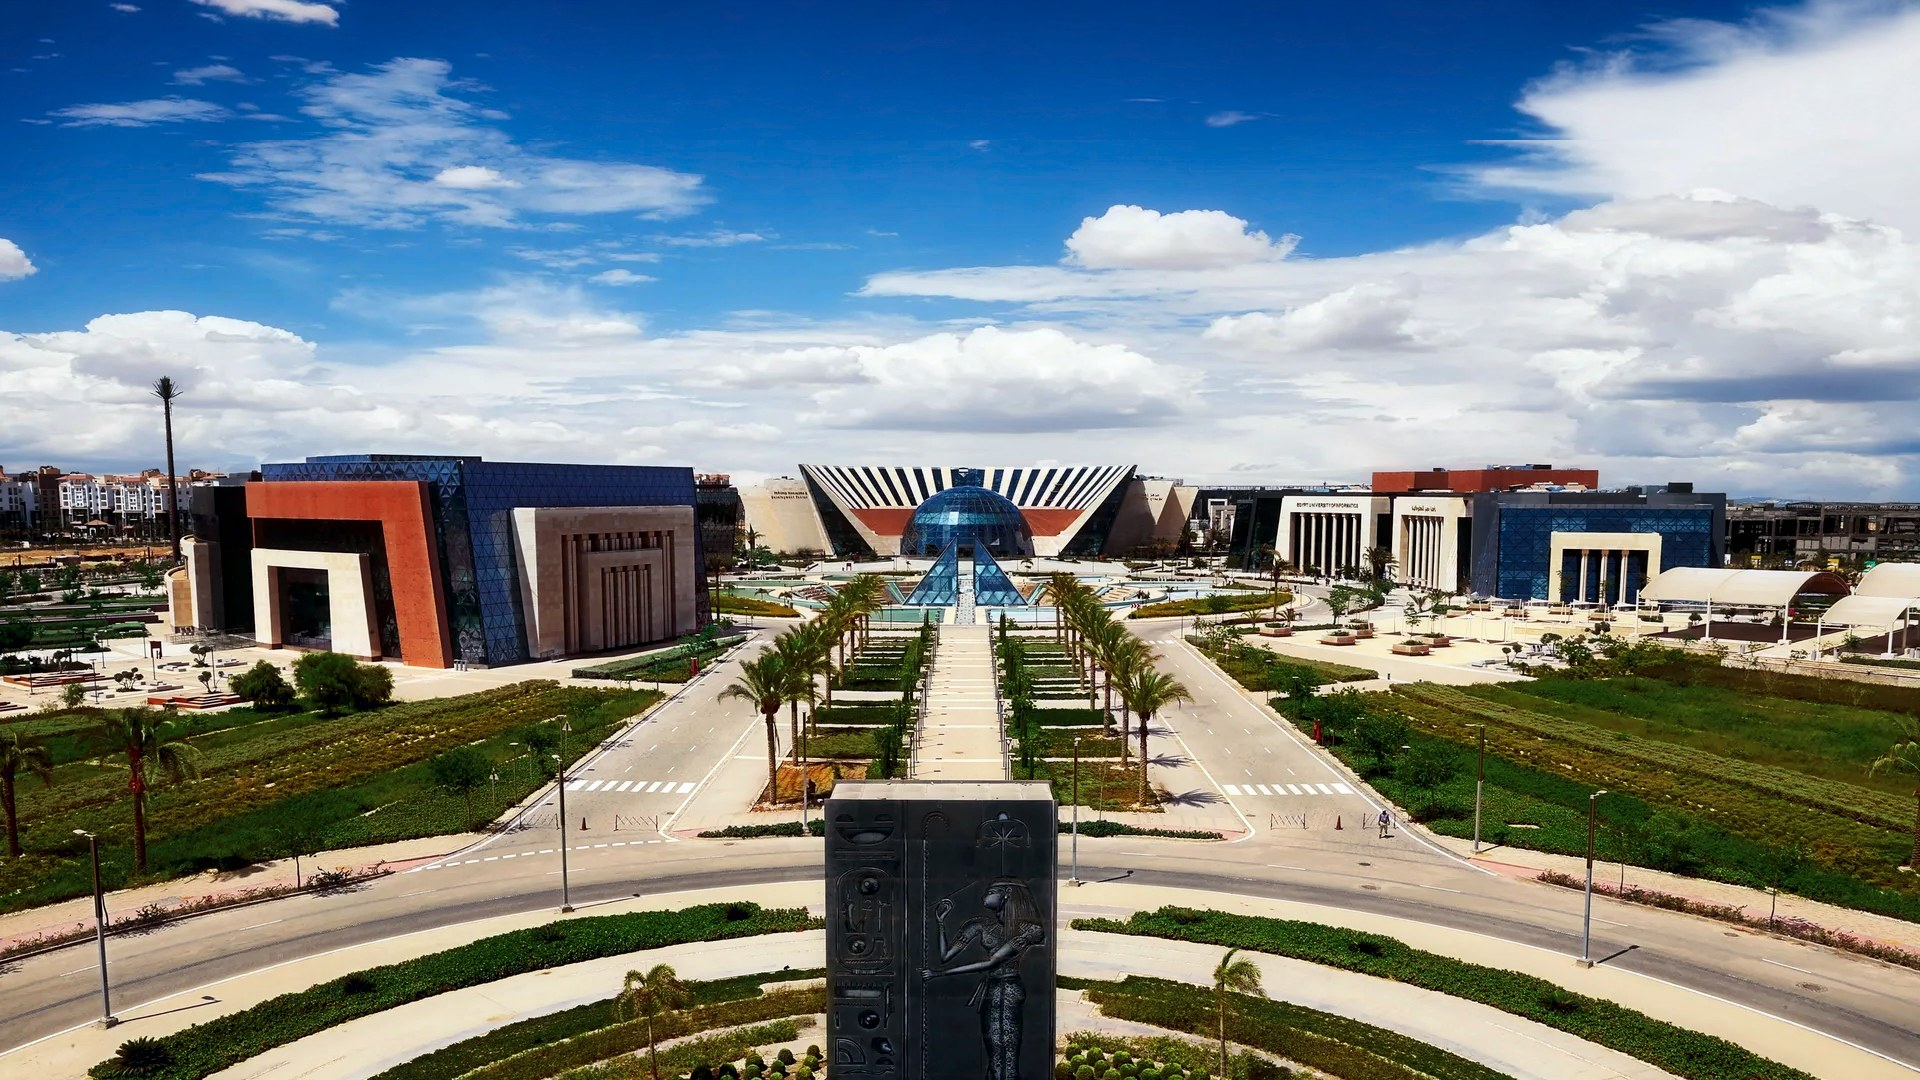
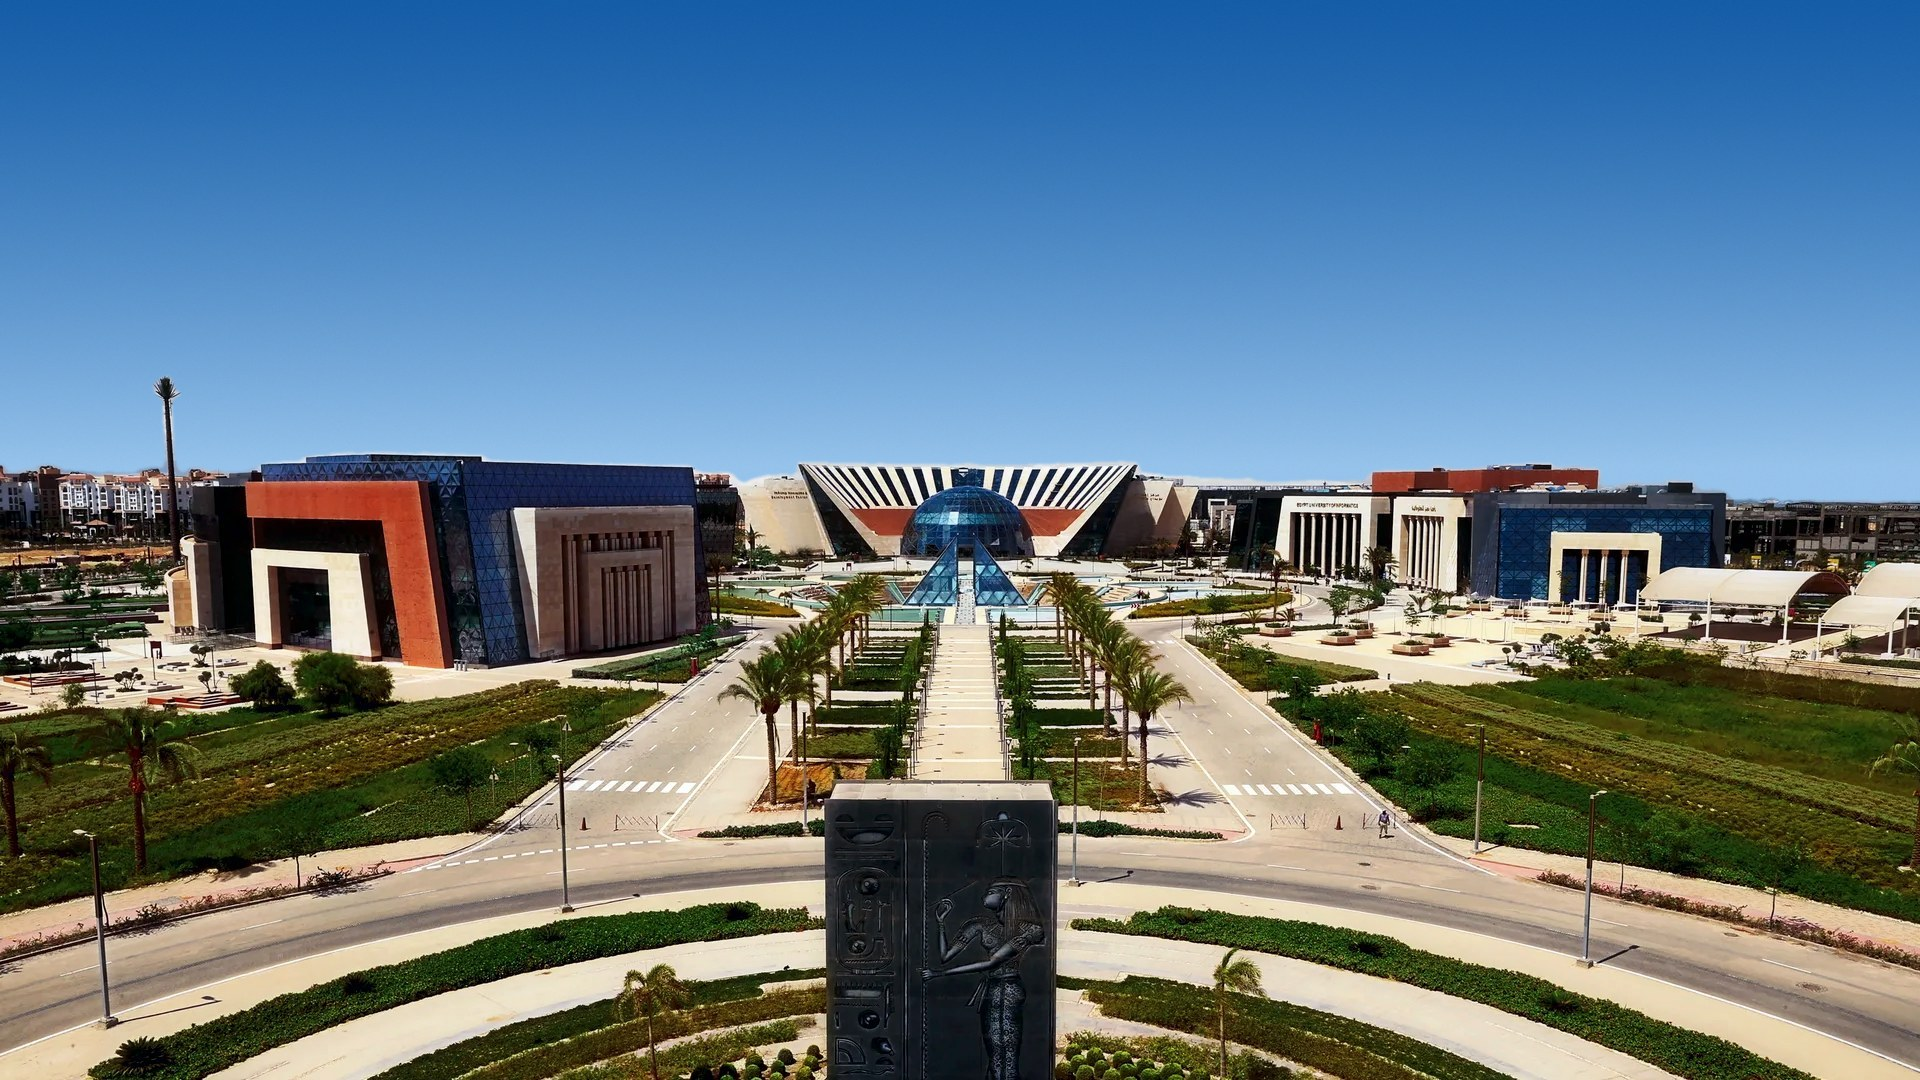
forum closing deck: parts in progress
Claude-Session: https://claude.ai/code/session_01LN3S85V7EoqPuFP5rGhuRW

diff --git a/r/forum/keynote.html b/r/forum/keynote.html
@@ -421,7 +421,7 @@ body{font-family:var(--f);-webkit-font-smoothing:antialiased;color:var(--navy)}
 <body>
 <div id="vp"><div id="stage"></div></div>
 <script src="src/kn/icons.js?v=18"></script>
-<script src="src/kn/slides.js?v=19"></script>
+<script src="src/kn/slides.js?v=20"></script>
 <script>
 const RG=v=>/^\s*[\d.]+\s*[–-]\s*[\d.]+\s*$/.test(String(v)),N=v=>`<span class="num"${RG(v)?' style="direction:rtl"':''}>${v}</span>`, G=v=>`<span class="num grad"${RG(v)?' style="direction:rtl"':''}>${v}</span>`;
 const fnum=x=>parseFloat(String(x).replace(/[^0-9.]/g,''))||0;

diff --git a/r/forum/src/kn/live.js b/r/forum/src/kn/live.js
@@ -1,1 +1,1 @@
-window.KNLIVE=1792548580;
+window.KNLIVE=1792549337;
